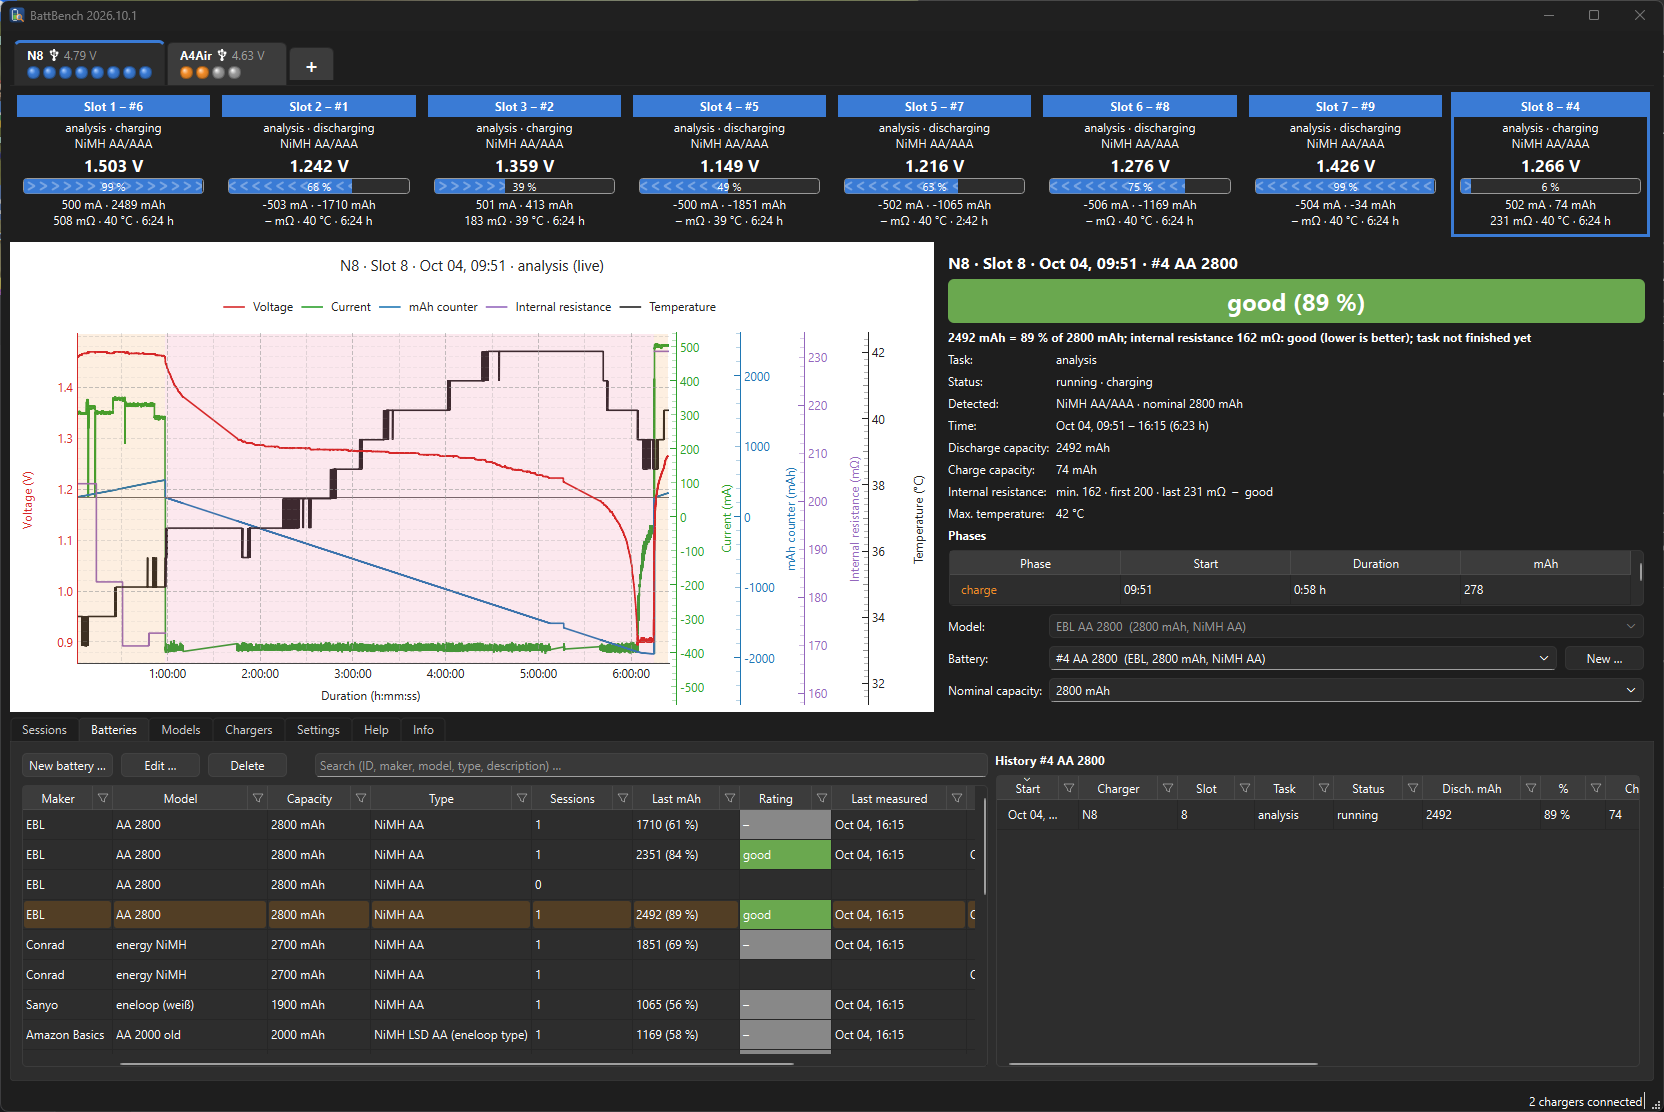
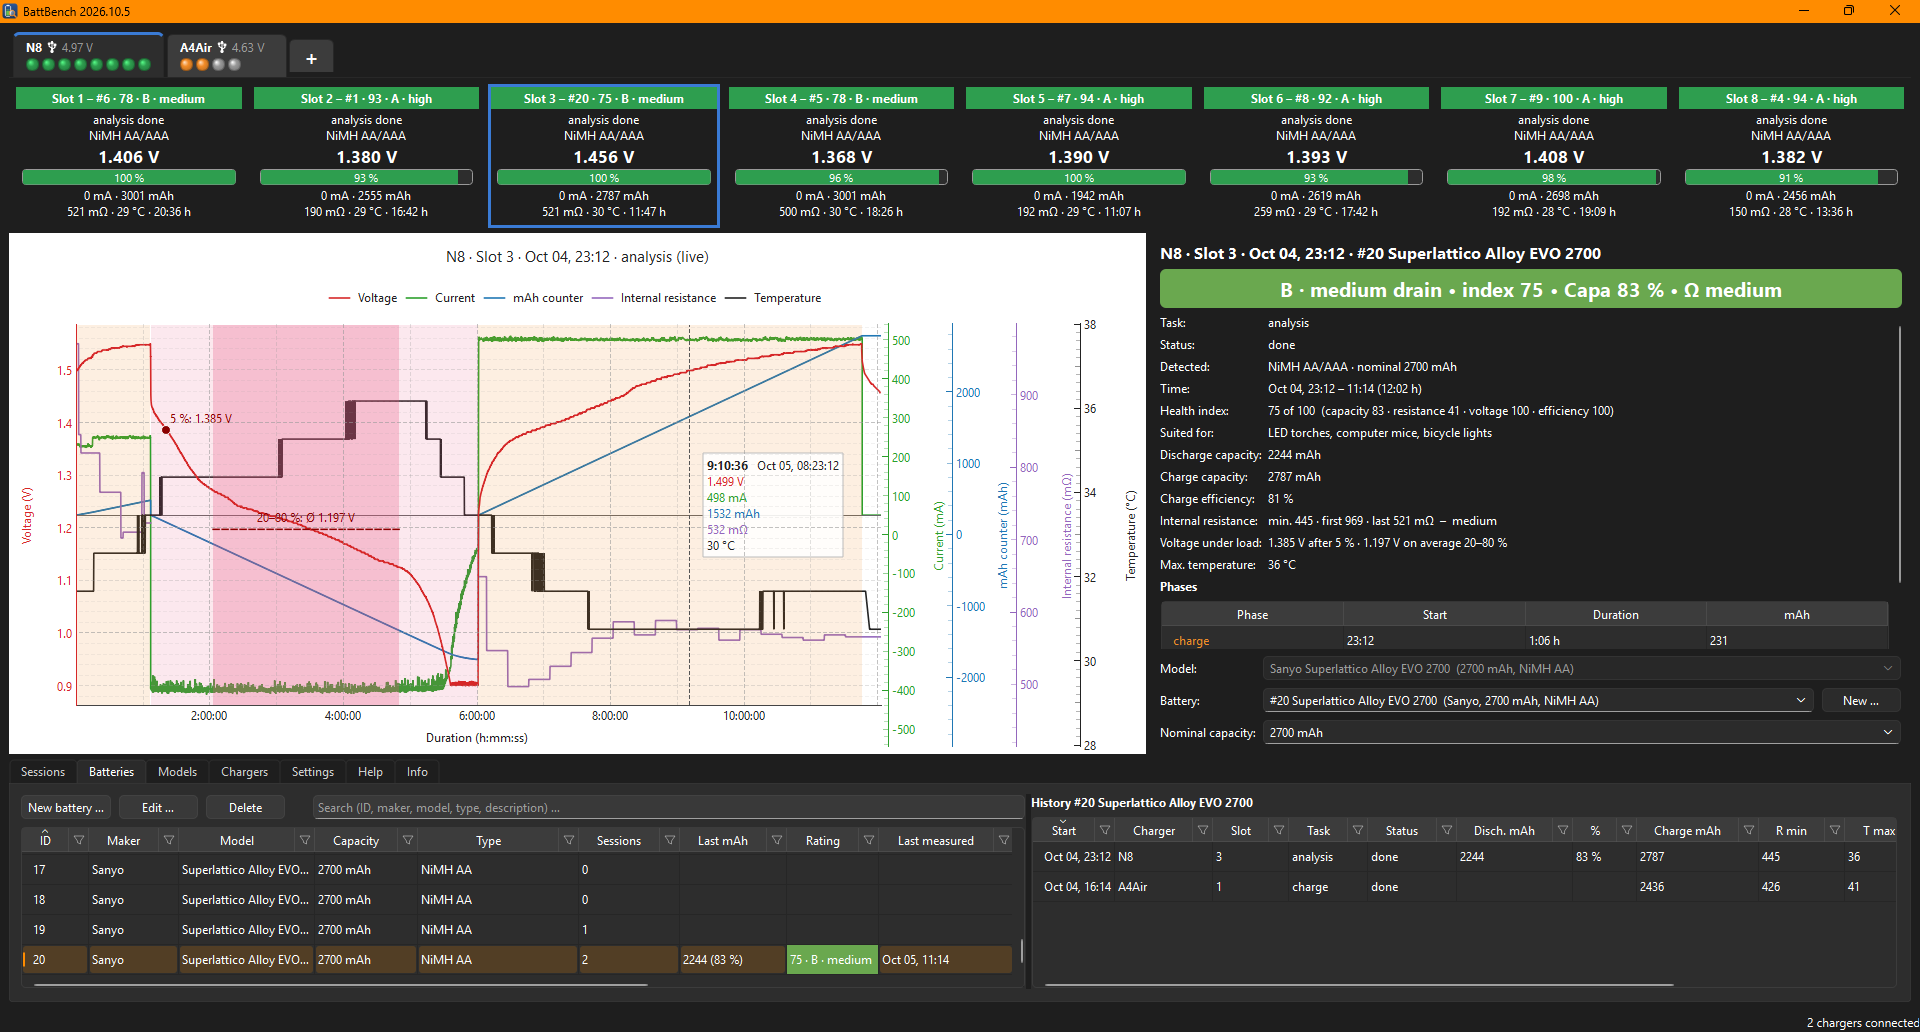
README: new screenshot with health index and battery history

diff --git a/README.md b/README.md
@@ -2,10 +2,10 @@
 
 **Battery test bench for your PC: track every rechargeable cell over its whole life and see how it ages.**
 
-[![BattBench: live view of two chargers, chart of a running capacity test, rating and battery list](docs/screenshot.png)](docs/screenshot.png)
+[![BattBench: live view of two chargers, chart of a capacity test, health index and battery history](docs/screenshot.png)](docs/screenshot.png)
 
-*Two chargers with twelve slots live, the chart of a running capacity test, its rating and the list of batteries with
-their latest results.*
+*Two chargers with twelve slots live, each slot with its battery and rating; the chart of a capacity test with the
+plateau of the discharge marked, its health index and the history of the battery.*
 
 BattBench reads ISDT and SkyRC chargers over **USB** and **Bluetooth**, records their readings, detects charge and
 discharge runs, rates each battery against its nominal capacity and keeps a **history per battery**. Several chargers
